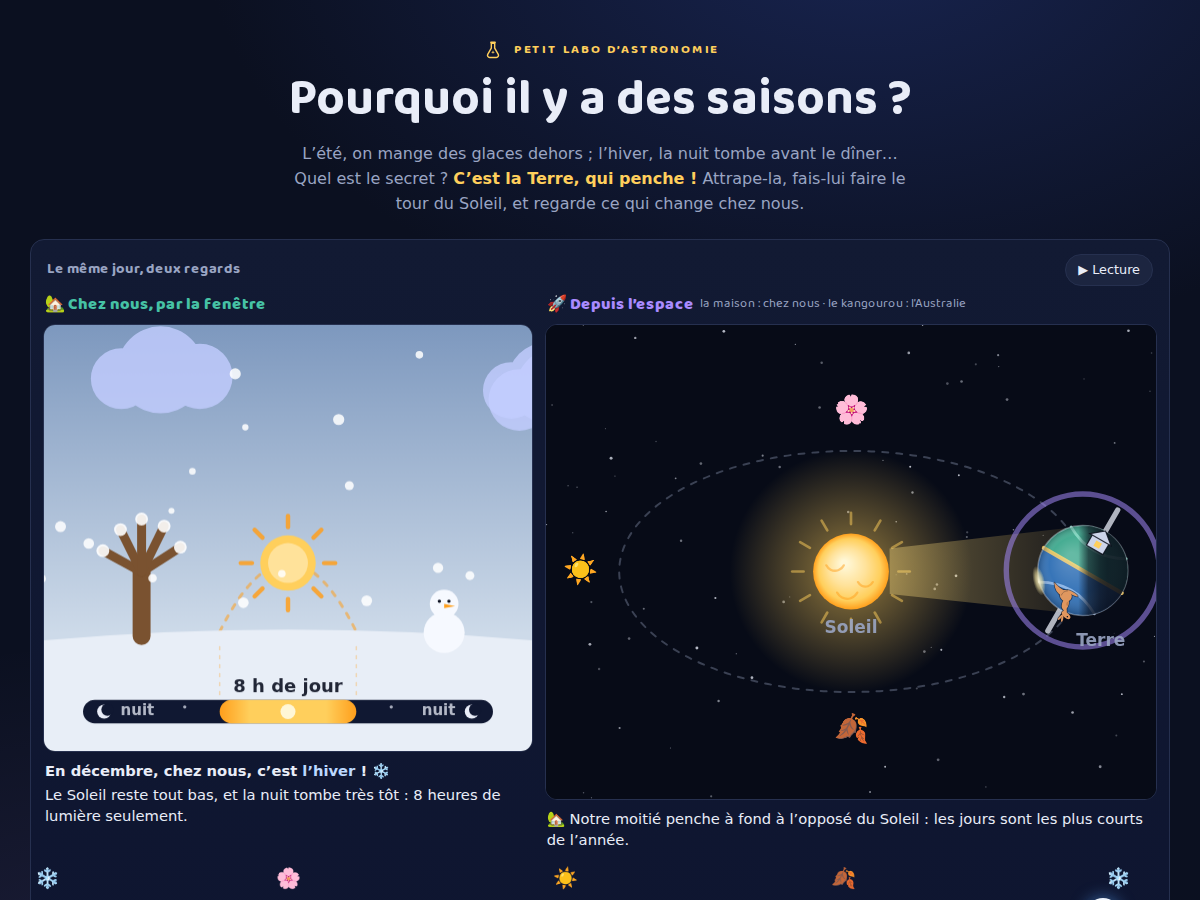
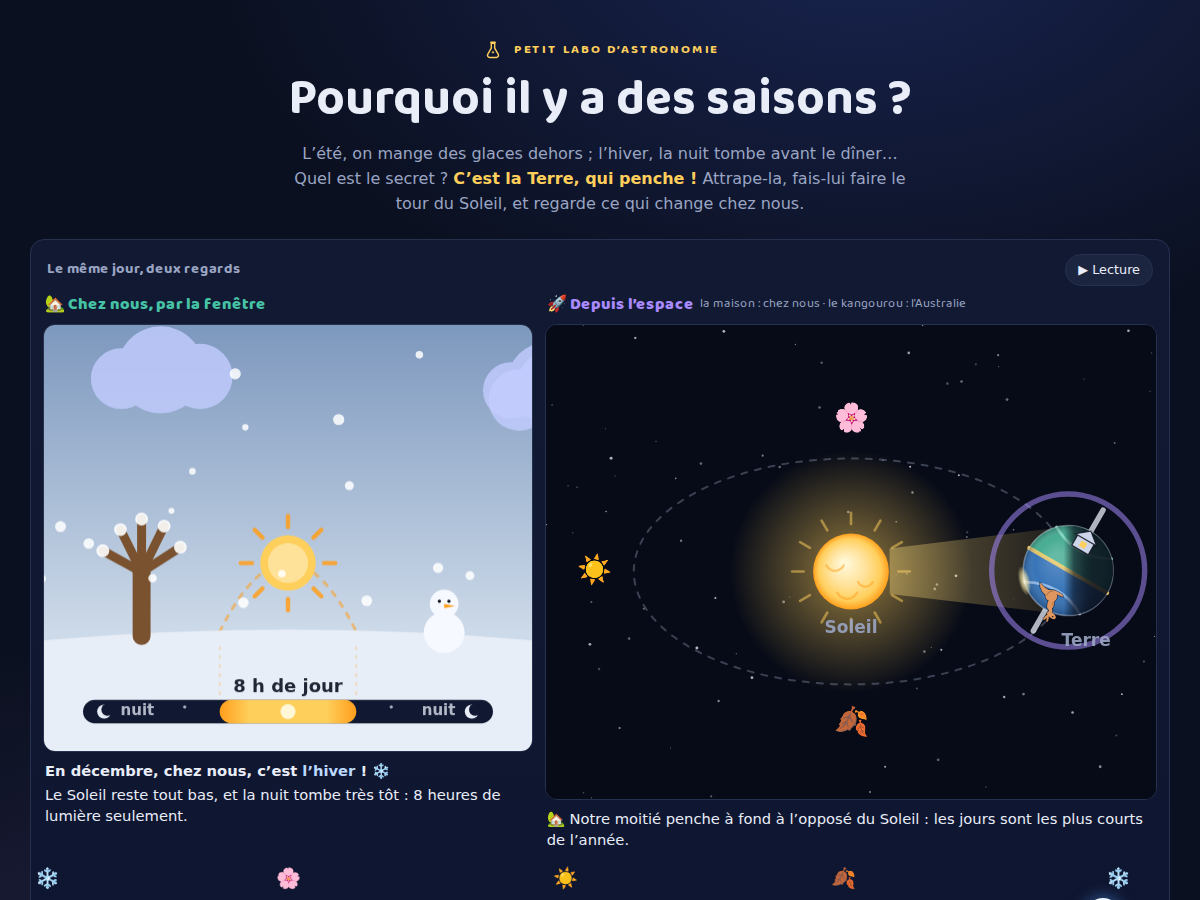
fix: le jeu ne coupe plus la Terre et ne tire plus de défi gagné d'avance
- L'orbite se borne (rx ≤ 0,5 l − 1,95 rTerre) pour que le globe et son
  anneau « attrape-moi » tiennent en entier aux solstices — le jeu
  coupait la Terre au bord droit du canvas.
- Les deux vues du jeu tombent à la même hauteur (colonnes 9fr/8fr, le
  rapport de leurs ratios 9/7 et 8/7).
- Le tirage n'offre plus jamais un défi que le jour affiché réussit
  déjà : quand le fond du panier n'a plus que des défis gagnés d'avance
  (l'hiver en réussit deux), on remélange un panier neuf — fini le bravo
  sans avoir bougé la Terre. Vérifié sur 48 tirages aux quatre repères,
  et verrouillé dans la suite navigateur.

Claude-Session: https://claude.ai/code/session_018g4iGsVy9rHqQjnC3SGe4X

diff --git a/js/main.js b/js/main.js
@@ -735,21 +735,27 @@ function remplirPanierDefis() {
 
 var dernierDefiId = null; /* survit au rangement du jeu (anti-répétition) */
 
+function indiceDefiValide() {
+  /* Un défi valide : pas le dernier tiré (anti-répétition), et pas un défi
+   * que le jour actuel réussit déjà (le bravo tomberait sans rien fabriquer). */
+  for (var i = 0; i < panierDefis.length; i++) {
+    if (panierDefis[i].id === dernierDefiId) continue;
+    if (!defiReussi(panierDefis[i], etat.jour)) return i;
+  }
+  return -1;
+}
+
 function prochainDefi() {
   /* Tirage au panier, sans remise : tous les défis sortent avant qu'on
-   * remélange. Deux filtres, appliqués ensemble : jamais deux fois le même
-   * d'affilée (même après un remélange ou une réouverture du jeu), et pas
-   * un défi que le jour actuel réussit déjà (gagné d'avance) — sauf s'il
-   * ne reste que ceux-là dans le panier. */
+   * remélange. Si le fond du panier ne contient plus que des défis gagnés
+   * d'avance (l'hiver en réussit deux : la neige et l'été australien) ou le
+   * dernier tiré, on remélange un panier neuf plutôt que de mentir — avec
+   * cinq défis pour quatre saisons, il reste toujours au moins deux
+   * candidats valides après remélange. */
   if (!panierDefis.length) remplirPanierDefis();
-  var indice = -1;
-  var secours = -1;
-  for (var i = 0; i < panierDefis.length; i++) {
-    if (panierDefis.length > 1 && panierDefis[i].id === dernierDefiId) continue;
-    if (secours < 0) secours = i;
-    if (!defiReussi(panierDefis[i], etat.jour)) { indice = i; break; }
-  }
-  if (indice < 0) indice = secours >= 0 ? secours : 0;
+  var indice = indiceDefiValide();
+  if (indice < 0) { remplirPanierDefis(); indice = indiceDefiValide(); }
+  if (indice < 0) indice = 0; /* filet théorique, inatteignable avec 5 défis */
   defi = panierDefis.splice(indice, 1)[0];
   dernierDefiId = defi.id;
   defiGagne = false;

diff --git a/js/vue-orbite.js b/js/vue-orbite.js
@@ -164,9 +164,11 @@ export function creerVueOrbite(canvas) {
     var compact = Math.min(w, h) < 400 * (window.devicePixelRatio || 1);
     var cx = w * 0.5;                 /* le Soleil au centre : l'objet-repère fixe */
     var cy = h * 0.52;
-    var rx = Math.min(w * 0.38, h * 0.62);
-    var ry = rx * 0.52;
     var rTerre = Math.min(w, h) * (compact ? 0.105 : 0.095);
+    /* Le globe et son anneau « attrape-moi » (1,82 rTerre) doivent tenir en
+     * entier aux solstices : l'orbite se borne pour leur laisser la place. */
+    var rx = Math.min(w * 0.38, h * 0.62, w * 0.5 - rTerre * 1.95);
+    var ry = rx * 0.52;
     var rSoleil = Math.min(w, h) * 0.08; /* 8 % : de l'air pour l'orbite et le faisceau */
     return { w: w, h: h, cx: cx, cy: cy, rx: rx, ry: ry, rTerre: rTerre, rSoleil: rSoleil, compact: compact };
   }

diff --git a/css/style.css b/css/style.css
@@ -330,9 +330,11 @@ main { max-width: 1180px; margin: 0 auto; padding: 0 20px 60px; }
 .defi-jeu { margin: 2px 2px 12px; font-size: 1.25rem; font-weight: 800; color: var(--sun); }
 .vues-jeu {
   display: grid;
-  grid-template-columns: minmax(0, 1.25fr) minmax(0, 1fr);
+  /* 9fr / 8fr = le rapport des ratios des deux cadres (9/7 et 8/7) :
+     les deux vues du jeu tombent PILE à la même hauteur */
+  grid-template-columns: minmax(0, 9fr) minmax(0, 8fr);
   gap: 10px; align-items: start;
-  max-width: 860px;
+  max-width: 980px;
 }
 .bravo-jeu {
   margin: 12px 2px 4px; padding: 10px 14px; border-radius: 12px;

diff --git a/CLAUDE.md b/CLAUDE.md
@@ -68,7 +68,10 @@ Vérités verrouillées par `test/model.test.mjs` (à compléter, jamais supprim
 - **La vue de l'espace est l'« hybride »** (choix utilisateur, après
   comparaison 2D / hybride / 3D en artefact — la 3D, restée trop petite sur
   téléphone, vit dans l'historique git) : l'orbite-ellipse en perspective à
-  plat (cx = 0,5 l ; cy = 0,52 h ; rx = min(0,38 l ; 0,62 h) ; ry = 0,52 rx),
+  plat (cx = 0,5 l ; cy = 0,52 h ; rx = min(0,38 l ; 0,62 h ; 0,5 l −
+  1,95 rTerre) — le dernier terme garantit que le globe et son anneau
+  « attrape-moi » (1,82 rTerre) tiennent EN ENTIER aux solstices, le jeu
+  coupait la Terre au bord droit ; ry = 0,52 rx),
   un **Soleil-boule** (dégradé radial + granules) fixe au centre, rayon
   **8 % de min(l, h)** — de l'air pour l'orbite et le faisceau —, et le
   modelé du globe (voile clair, bord assombri). La sonde de pixels « Soleil
@@ -159,7 +162,13 @@ Vérités verrouillées par `test/model.test.mjs` (à compléter, jamais supprim
   les consignes d'équinoxe font écho aux boutons (« le printemps
   revient », « l'automne arrive ») et le jardin y tient leurs promesses
   (arbre tout fleuri, feuilles qui tombent). Le tirage est un panier SANS remise, anti-répétition compris
-  après remélange et réouverture du jeu (`dernierDefiId`). Le défi du kangourou
+  après remélange et réouverture du jeu (`dernierDefiId`) — et il n'offre
+  JAMAIS un défi que le jour affiché réussit déjà : si le fond du panier
+  n'a plus que des défis gagnés d'avance (l'hiver en réussit deux — la
+  neige et l'été australien), on remélange un panier neuf au lieu de
+  laisser tomber un bravo gratuit (retour utilisateur ; verrouillé par la
+  suite navigateur). Les deux vues du jeu partagent la même hauteur
+  (colonnes 9fr/8fr = le rapport de leurs ratios). Le défi du kangourou
   (l'été australien) est la révélation du site.
 - **Les repères de saison (❄🌸☀🍂) autour de l'orbite s'effacent** quand la
   Terre est dessus (elle y est déjà — pas de doublon visuel).
